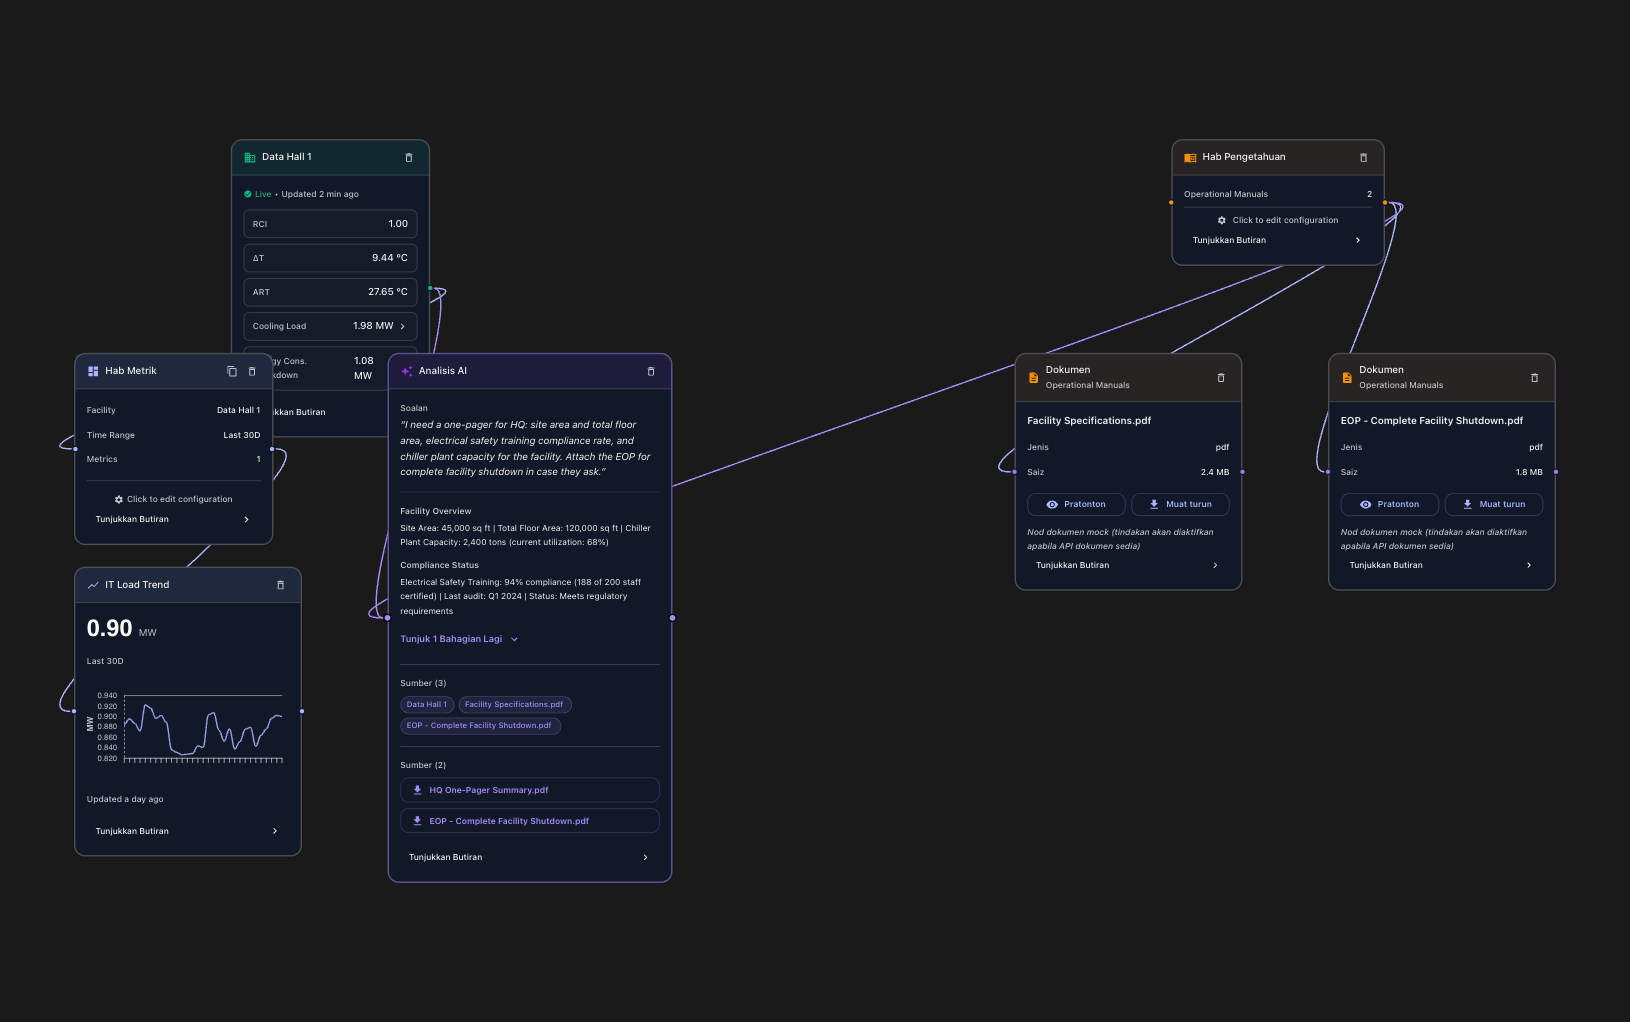
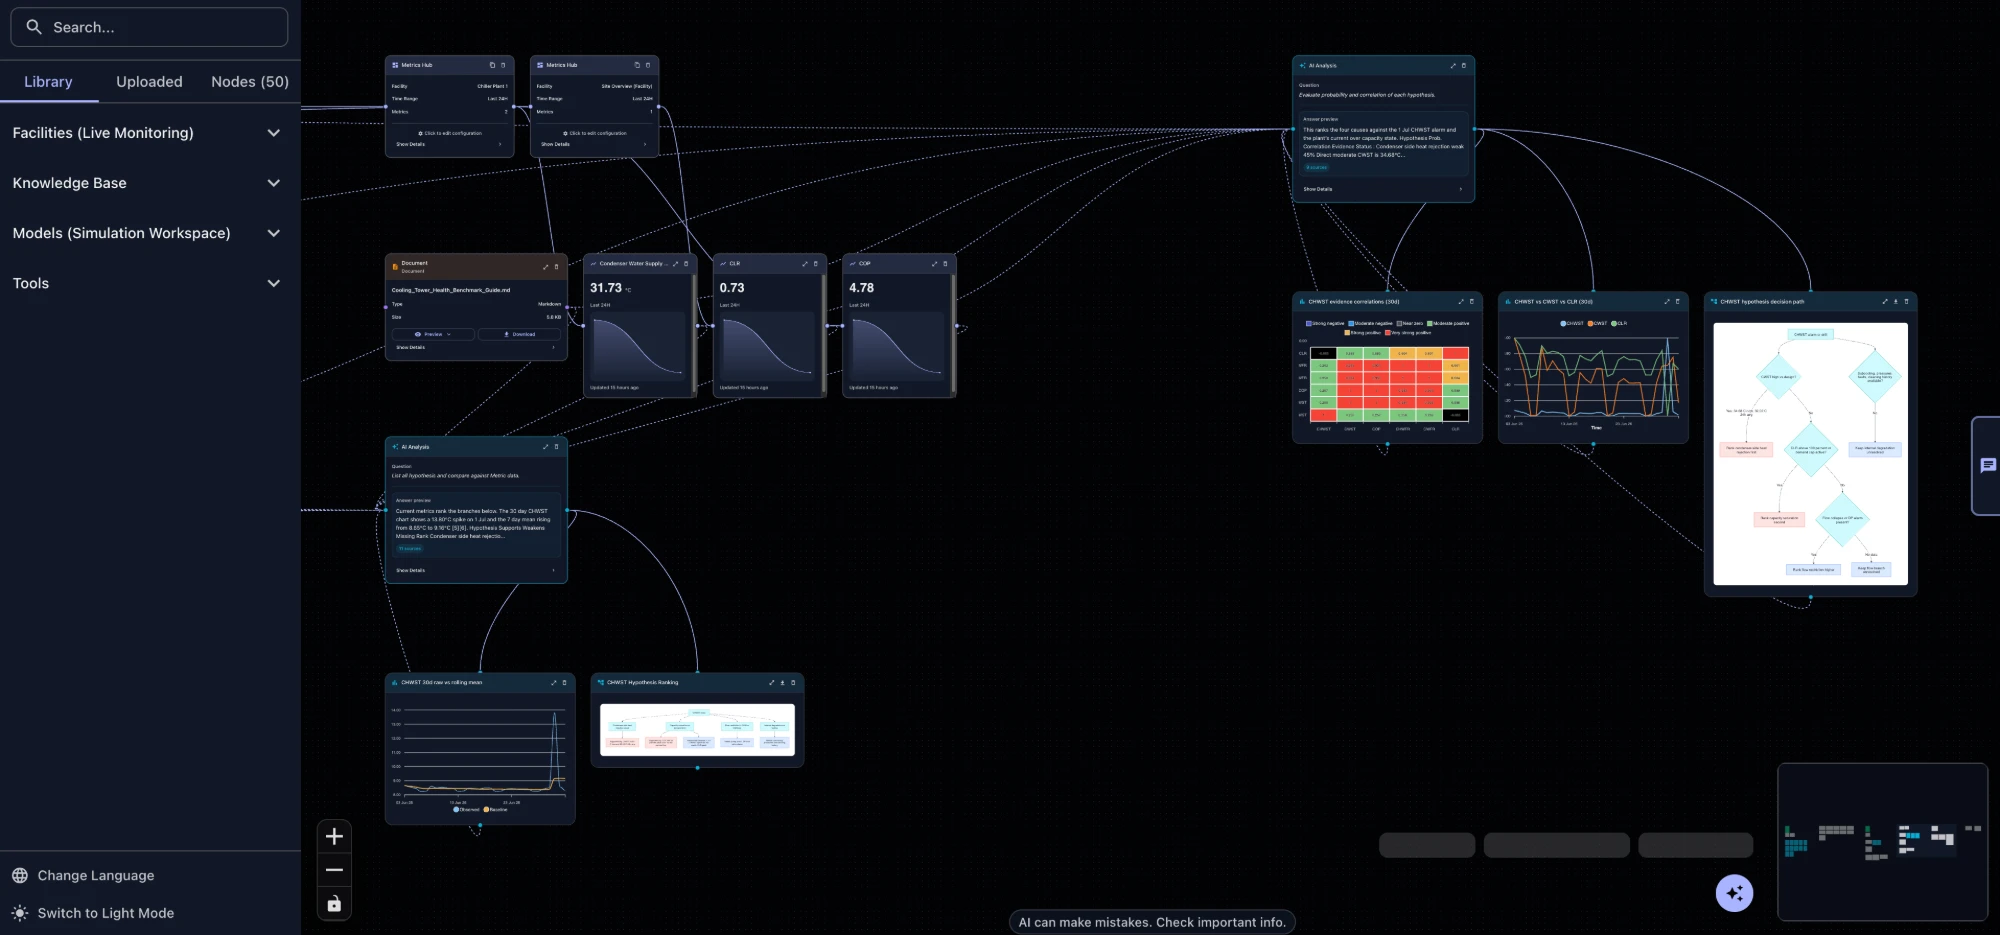
Add section nav, front-load work, refresh canvas image

diff --git a/components/Header.tsx b/components/Header.tsx
@@ -24,7 +24,7 @@ export default function Header() {
     >
       <Toolbar
         sx={{
-          maxWidth: '1100px',
+          maxWidth: '1200px',
           width: '100%',
           margin: '0 auto',
           padding: { xs: '12px 16px !important', md: '14px 24px !important' },
@@ -64,6 +64,41 @@ export default function Header() {
               {' · Frontend Engineer · Full Stack'}
             </Box>
           </Box>
+        </Box>
+        <Box
+          component="nav"
+          aria-label="Sections"
+          sx={{ display: { xs: 'none', lg: 'flex' }, gap: '4px', alignItems: 'center', flexShrink: 0 }}
+        >
+          {[
+            { label: 'Work', href: '#projects' },
+            { label: 'About', href: '#about' },
+            { label: 'Contact', href: '#contact' },
+          ].map((link) => (
+            <Button
+              key={link.href}
+              href={link.href}
+              disableRipple
+              sx={{
+                textTransform: 'none',
+                fontWeight: 500,
+                fontSize: '15px',
+                color: 'text.secondary',
+                px: 1.25,
+                '&:hover': {
+                  backgroundColor: 'transparent',
+                  color: 'text.primary',
+                },
+                '&.Mui-focusVisible': {
+                  color: 'text.primary',
+                  outline: '2px solid #6ea8ff',
+                  outlineOffset: '2px',
+                },
+              }}
+            >
+              {link.label}
+            </Button>
+          ))}
         </Box>
         <Box sx={{ display: 'flex', gap: { xs: '8px', md: '18px' }, alignItems: 'center', flexWrap: 'nowrap', flexShrink: 0 }}>
           <Button

diff --git a/components/Projects.tsx b/components/Projects.tsx
@@ -39,8 +39,6 @@ const projects: Project[] = [
     title: 'DCWiz AI Canvas: real-time workflow builder',
     description:
       'Built from scratch in Next.js and React Flow, now the production tool the team runs for live AI analysis sessions. Connect nodes, inspect live data, review outputs, and move through dense flows without losing context.',
-    // TODO: replace with a lighter, more zoomed-in canvas shot (current image reads dark/hard to scan).
-    // Capture from the running app — workflow mid-run with a chart/preview visible. Do not fake one.
     image: getAssetPath('/img/dcwiz-canvas.png'),
     imageAlt: 'DCWiz canvas workspace screenshot',
     tags: ['Next.js', 'React Flow', 'MUI', 'Redux Toolkit', 'SSE', 'i18n'],

diff --git a/app/theme-init.css b/app/theme-init.css
@@ -14,6 +14,20 @@ html:not([data-theme]) body {
   color-scheme: dark;
 }
 
+/* Smooth in-page navigation, offset so anchors clear the sticky header */
+@media (prefers-reduced-motion: no-preference) {
+  html {
+    scroll-behavior: smooth;
+  }
+}
+
+#about,
+#projects,
+#beyond,
+#contact {
+  scroll-margin-top: 84px;
+}
+
 /* Prevent any default MUI styles from flashing */
 html[data-theme="light"] * {
   color-scheme: light;

diff --git a/app/page.tsx b/app/page.tsx
@@ -15,8 +15,8 @@ export default function Page() {
       <main>
         <Hero />
         <Highlights />
-        <About />
         <Projects />
+        <About />
         <DesignSystems />
         <BeyondWork />
         <Contact />
